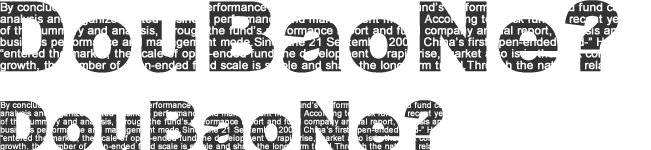
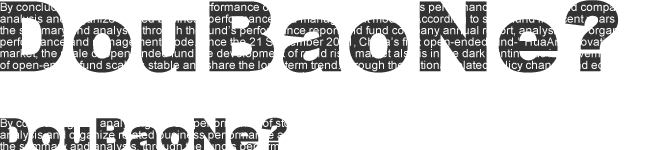
all

diff --git a/assets/themes/custom/css/style.css b/assets/themes/custom/css/style.css
@@ -2,22 +2,32 @@
 html, body {
   background-color: #fff;
   background-image:url(../images/bg.png);
-  background-position: center center;
+  background-position: center 0;
   color: #ccc;
 }
 .brand{
-	margin:20px 0 0;
-	display: block;
-	height: 50px;
+    position: absolute;
+    width: 450px;
+    bottom:0;
+	height: 32px;
 	text-indent: -9999em;
-	position: relative;
 	background: url(../images/bg_title.png) no-repeat;
 	background-position: 0 bottom;
 }
-.brand.page-Home{
-	margin-top:180px;
+.page-Home .brand{
 	height: 70px;
-	background-position: 0 top;
+    width: 620px;
+    background-position: 0 top;
+}
+/*for webkit only*/
+@media screen and (-webkit-min-device-pixel-ratio:0) {
+    .page-Home .brand{
+        background: url(../images/emma.jpg) no-repeat;
+        background-position: center top;
+        background-color: #333;
+        background-attachment:fixed;
+        -webkit-mask:url(../images/bg_title.png);
+    }
 }
 .navbar {
   margin-bottom: 0;
@@ -32,11 +42,29 @@ html, body {
   box-shadow: none;
   filter:none;
 }
+.navbar .nav > li > a:hover,
 .navbar .nav .active>a,
-.navbar .nav .active>a:hover{color:#ffffff;text-decoration:none;background-color:#333;padding-top: 12px;border-top: 8px solid #fff;}
+.navbar .nav .active>a:hover{
+    color:#fff;
+    text-decoration:none;
+    padding-top: 12px;
+    margin-top: 8px;
+    background-color: #333;
+}
 .navbar .nav > li > a{
 	padding:20px 20px 22px;
 	font-size: 40px;
+    background-color: #333;
+    -webkit-transition:all 0.5s ease-in-out;
+       -moz-transition:all 0.5s ease-in-out;
+         -o-transition:all 0.5s ease-in-out;
+        -ms-transition:all 0.5s ease-in-out;
+            transition:all 0.5s ease-in-out;
+}
+.navbar .nav{
+    background-color: #fff;
+    background-image:url(../images/bg.png);
+    background-position: 102px -88px;
 }
 .container{
   width: 620px;
@@ -58,7 +86,13 @@ h1, h2, h3, h4, h5, h6{
 }
 .inner-wrap{
   background-color: #333;
-  box-shadow: 0 0 0 2px rgba(255,255,255,0.5);
+  /*box-shadow: 0 0 0 2px rgba(255,255,255,0.5);*/
+}
+.outter-wrap{
+    padding-top: 48px;
+}
+.page-Home .outter-wrap{
+    padding-top: 240px;
 }
 /* The white background content wrapper */
 .content {

diff --git a/_includes/themes/custom/default.html b/_includes/themes/custom/default.html
@@ -5,6 +5,8 @@
     <title>{{ page.title }}</title>
     {% if page.description %}<meta name="description" content="{{ page.description }}">{% endif %}
     <meta name="author" content="{{ site.author.name }}">
+    <meta content="telephone=no" name="format-detection" />
+    <meta id="viewport" name="viewport" content="width=device-width; initial-scale=1.0;maximum-scale=1.0; user-scalable=no;"/>
     <!-- Le HTML5 shim, for IE6-8 support of HTML elements -->
     <!--[if lt IE 9]>
       <script src="http://html5shim.googlecode.com/svn/trunk/html5.js"></script>
@@ -13,7 +15,7 @@
     <!-- Le styles -->
     <link href="{{ ASSET_PATH }}/bootstrap/css/bootstrap.min.css" rel="stylesheet">
     <link href="{{ ASSET_PATH }}/css/style.css?body=1" rel="stylesheet" type="text/css" media="all">
-
+    <link id="favicon" href="/favicon.ico" rel="icon" type="image/x-icon">
     <!-- Le fav and touch icons -->
   <!-- Update these with your own images
     <link rel="shortcut icon" href="images/favicon.ico">
@@ -23,10 +25,10 @@
   -->
   </head>
 
-  <body>
+  <body{% if page.url == "/index.html"%} class="page-Home"{% endif %}>
     <div class="outter-wrap">
-      <div class="container">
-        <a class="brand page-{{ page.title }}" href="{{ HOME_PATH }}">{{ site.title }}</a>
+      <div class="container dropdown">
+        <a class="brand" href="{{ HOME_PATH }}">{{ site.title }}</a>
       </div>
     </div><!-- /outter-wrap -->
     <div class="inner-wrap">
@@ -34,6 +36,7 @@
         <div class="navbar-inner">
           <div class="container">
             <ul class="nav">
+                <li{% if page.url == "/index.html"%} class="active"{% endif %}><a href="/">Home</a></li>
                 {% assign pages_list = site.pages %}
                 {% assign group = 'custom' %}
                 {% include JB/pages_list %}

diff --git a/_includes/themes/custom/post.html b/_includes/themes/custom/post.html
@@ -1,9 +1,9 @@
 <div class="page-header">
-  <h1>{{ page.title }} <small>Supporting tagline</small></h1>
+  <h1>{{ page.title }} {% if page.tagline %} <small>{{ page.tagline }}</small>{% endif %}</h1>
 </div>
 
-<div class="row">
-  <div class="span6">
+<div class="row-fluid">
+  <div class="span9">
     {{ content }}
     <hr>
     <div class="pagination">
@@ -25,7 +25,7 @@
     {% include JB/comments %}
   </div>
   
-  <div class="span2">
+  <div class="span3">
     <h4>Published</h4>
     <div class="date"><span>{{ page.date | date_to_long_string }}</span></div>
 

diff --git a/_includes/themes/custom/page.html b/_includes/themes/custom/page.html
@@ -2,8 +2,8 @@
   <h1>{% if page.group != "custom"%}{{ page.title }} {% endif %}{% if page.tagline %} <small>{{ page.tagline }}</small>{% endif %}</h1>
 </div>
 
-<div class="row">
-  <div class="span8">
+<div class="row-fluid">
+  <div class="span12 page-content">
     {{ content }}
   </div>
 </div>

diff --git a/about.md b/about.md
@@ -1,0 +1,30 @@
+---
+layout: page
+title: About
+header: Pages
+tagline: About me
+group: custom
+---
+{% include JB/setup %}
+
+## What I do?
+
+* 2012.02 - _______ [80success](http://www.80success.com/)
+* 2011.04 - 2011.12 [Mars (intern)](http://www.mars.com/)
+* 2010.07 - 2010.09 [Guotai Junan Securities (intern)](http://www.gtja.com/)
+* 2008.09 - 2012.07 [University of International Business and Economics (International Finance)](http://www.uibe.edu.cn/)
+
+-----------------
+
+## Follow me
+
+<div class="social-icons row">
+<ul class="unstyled">
+    <li class="span"><iframe style="background:#fff;" width="350" height="350" class="share_self"  frameborder="0" scrolling="no" src="http://widget.weibo.com/weiboshow/index.php?language=&width=350&height=350&fansRow=2&ptype=1&speed=0&skin=1&isTitle=1&noborder=1&isWeibo=1&isFans=0&uid=1786942657&verifier=b26a4fc5&dpc=1"></iframe></li>
+    <li class="span"><a target="_blank" href="http://weibo.com/doubaoorz"><img src="{{ ASSET_PATH }}/custom/images/social-icons/weibo.png" title="Sina Weibo" alt="Sina Weibo"></a></li>
+    <li class="span"><a target="_blank" href="http://www.facebook.com/emma.deng.75"><img src="{{ ASSET_PATH }}/custom/images/social-icons/facebook.png" title="facebook" alt="facebook"></a></li>
+    <li class="span"><a target="_blank" href="http://twitter.com/emmadeng08"><img src="{{ ASSET_PATH }}/custom/images/social-icons/twitter.png" title="Twitter" alt="Twitter"></a></li>
+    <li class="span"><a target="_blank" href="http://cn.linkedin.com/pub/emma-deng/15/40/548"><img src="{{ ASSET_PATH }}/custom/images/social-icons/linkedin.png" title="Linkedin" alt="Linkedin"></a></li>
+</ul>
+</div>
+

diff --git a/index.md b/index.md
@@ -2,7 +2,6 @@
 layout: page
 title: Home
 tagline: Doubao's Homepage
-group: custom
 ---
 {% include JB/setup %}
 
@@ -13,5 +12,3 @@ My name is Emma, a girl from China who
 Love `eating`
 
 Hate `walking`.
-
-
